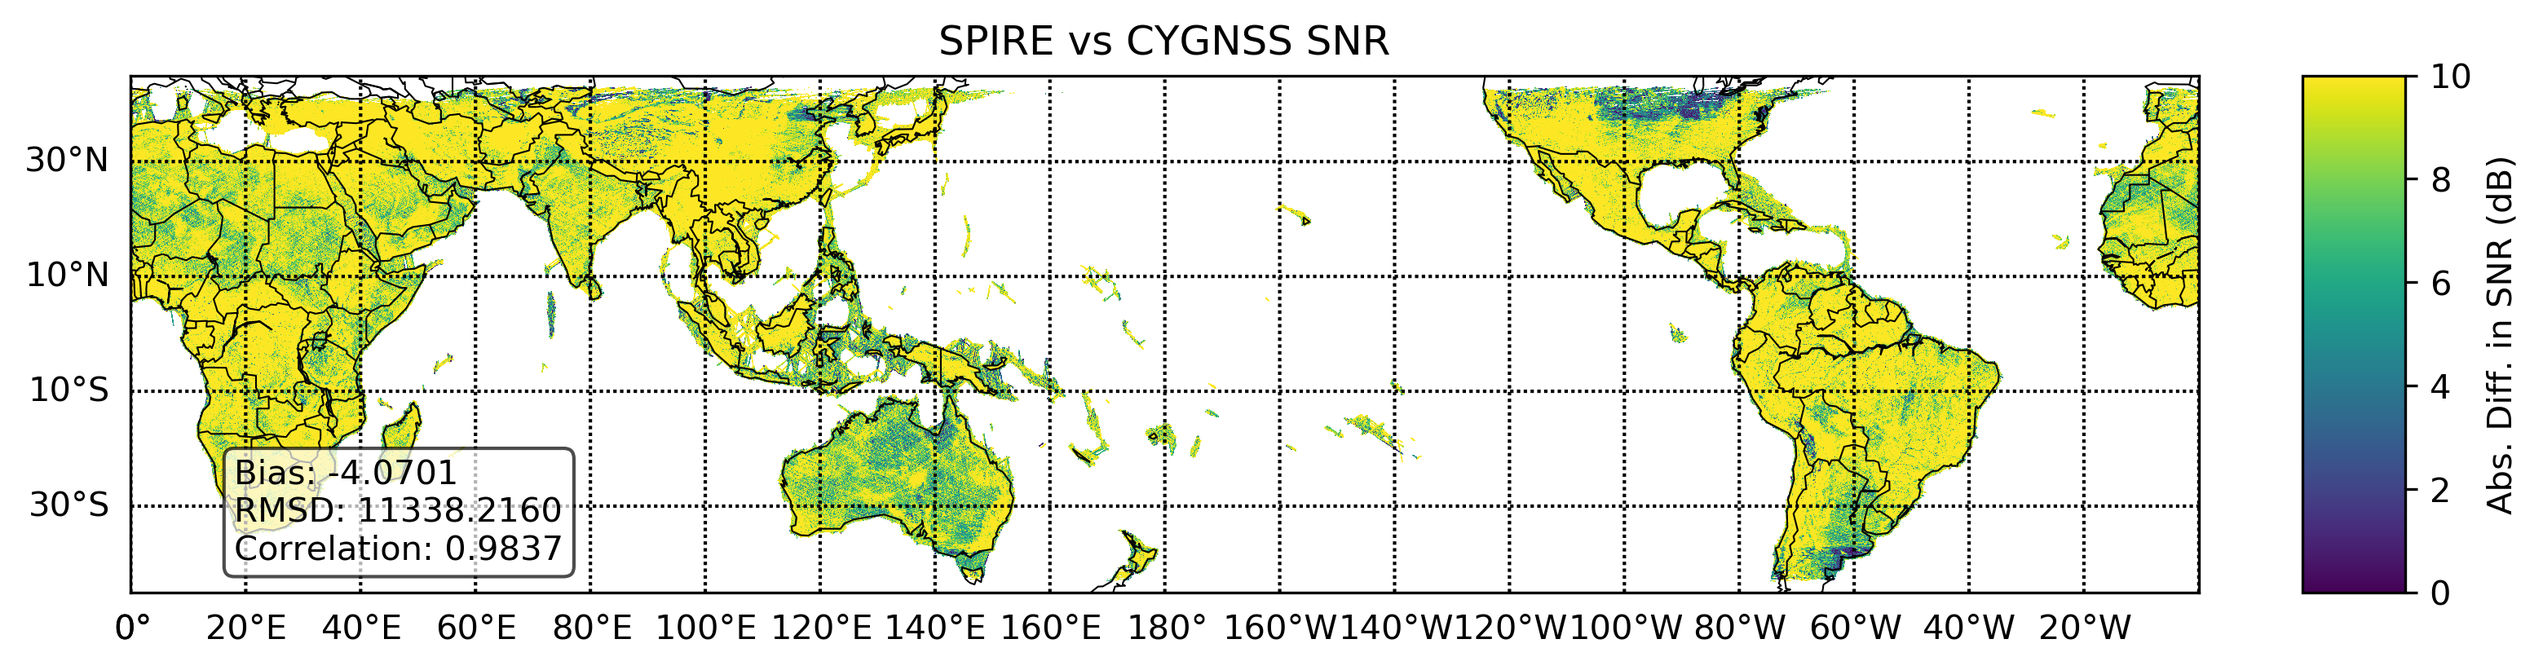
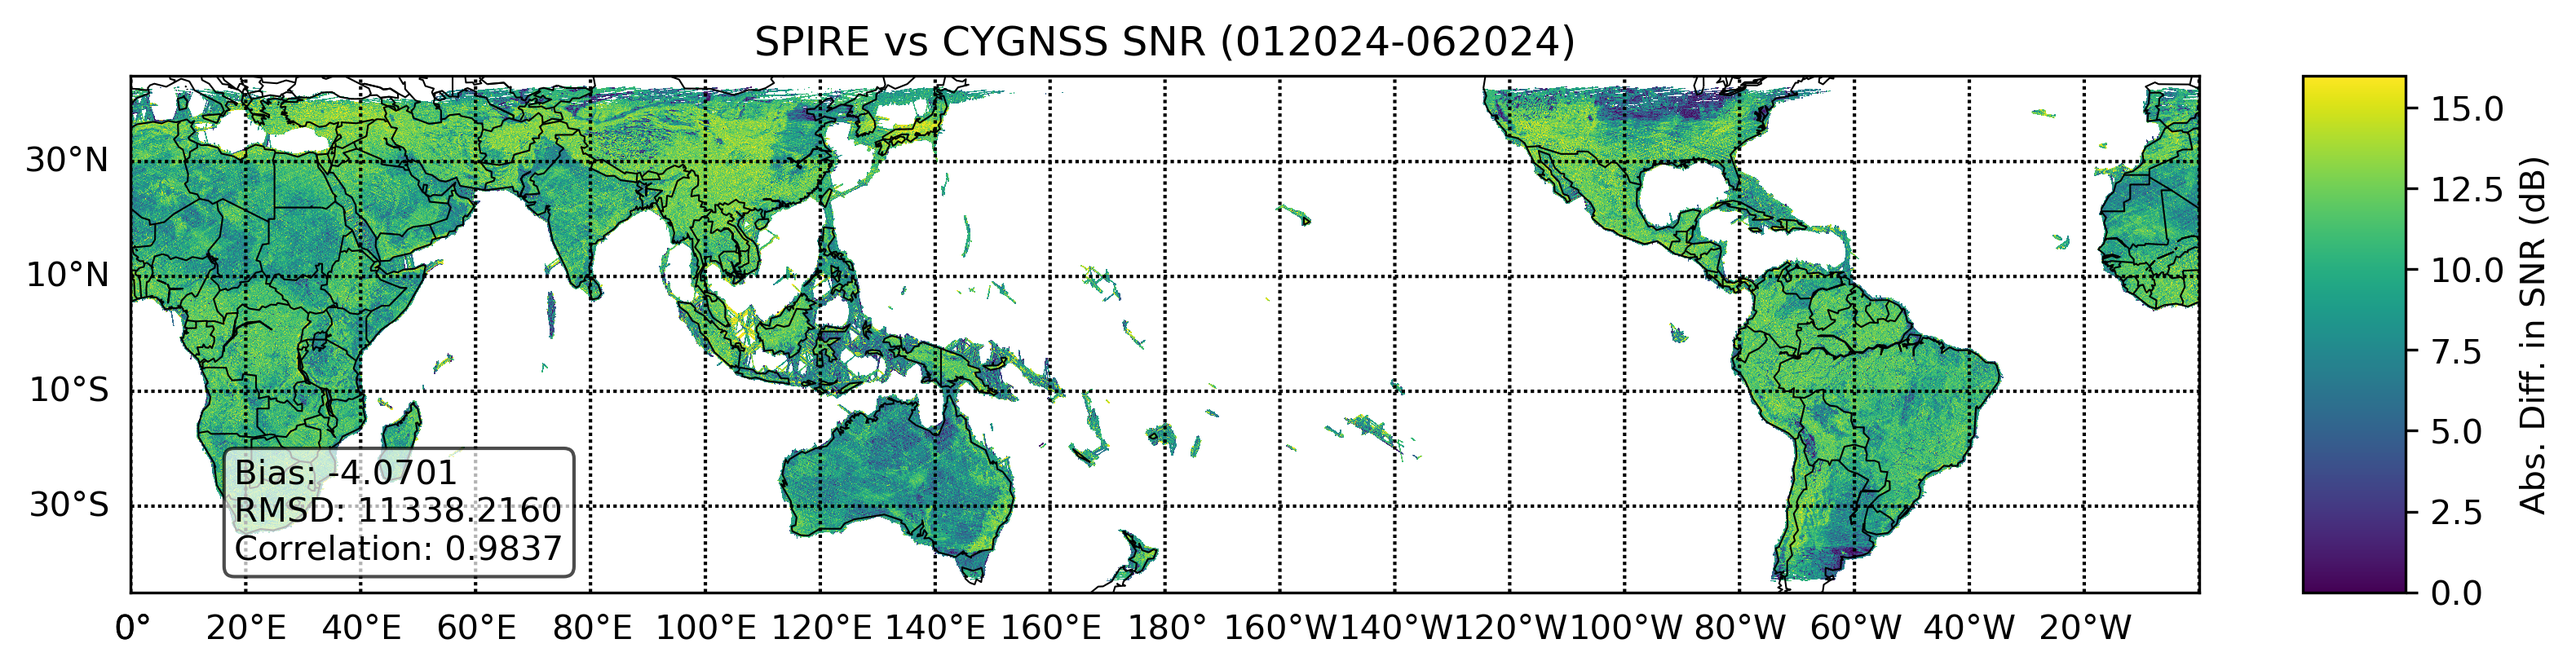
zoomed in and better comparison maps

diff --git a/visualize_comparison.py b/visualize_comparison.py
@@ -22,38 +22,32 @@ def calculate_statistics(grid1, grid2):
 
     return diff_grid, stats
 
-# creates a matplotlib figure for a given grid over an Earth map
-def create_figure(grid, title, label, file_name, isomin, isomax, latmin, latmax, stats=None):
+def create_figure(grid, title, label, file_name, isomin, isomax, lonmin, lonmax, latmin, latmax, stats=None):
     fig, ax = plt.subplots(figsize=(12, 8))
 
-    # the Basemap library adds a map of the Earth for easy viewing
     m = Basemap(projection='cyl', llcrnrlat=latmin, urcrnrlat=latmax,
-                llcrnrlon=0, urcrnrlon=360, resolution='c', ax=ax)
+                llcrnrlon=lonmin, urcrnrlon=lonmax, resolution='c', ax=ax)
 
-    # creates a meshgrid from [0, 360] and [latmin, latmax] used to translate argument grid to lon and lat values 
     lon_vals = np.linspace(0, 360, grid.shape[1])
-    lat_vals = np.linspace(latmin, latmax, grid.shape[0])
+    lat_vals = np.linspace(-45, 45, grid.shape[0])
     lon_grid, lat_grid = np.meshgrid(lon_vals, lat_vals)
 
-    # remove values that are equal to -9999
     masked_grid = np.ma.masked_where(grid == -9999, grid)
 
     cs = m.pcolormesh(lon_grid, lat_grid, masked_grid, shading='auto', 
                       cmap='viridis', vmin=isomin, vmax=isomax)
 
-    # customization stuff
     m.drawcoastlines(linewidth=0.5)
     m.drawcountries(linewidth=0.5)
 
-    m.drawparallels(np.arange(-90, 91, 20), labels=[1, 0, 0, 0])  # Latitude lines
-    m.drawmeridians(np.arange(0, 361, 20), labels=[0, 0, 0, 1])   # Longitude lines
+    m.drawparallels(np.arange(-90, 91, 20), labels=[1, 0, 0, 0])  
+    m.drawmeridians(np.arange(0, 361, 20), labels=[0, 0, 0, 1])  
 
     cbar = m.colorbar(cs, location='right', pad="5%")
     cbar.set_label(label)
 
     ax.set_title(title)
 
-    # If statistics are provided, add them as annotations
     if stats:
         bias, rmsd, corr = stats
         textstr = '\n'.join((
@@ -61,7 +55,6 @@ def create_figure(grid, title, label, file_name, isomin, isomax, latmin, latmax,
             f"RMSD: {rmsd:.4f}",
             f"Correlation: {corr:.4f}"
         ))
-        # place the text box in the lower-left corner of the plot
         props = dict(boxstyle='round', facecolor='white', alpha=0.7)
         ax.text(0.05, 0.05, textstr, transform=ax.transAxes, fontsize=10,
                 verticalalignment='bottom', bbox=props)
@@ -70,25 +63,31 @@ def create_figure(grid, title, label, file_name, isomin, isomax, latmin, latmax,
     plt.close()
 
 def visualize_SPIRE_vs_CYGNSS():
-    with open('/data01/lpu/spire_snr_grid.pkl', 'rb') as f:
-        spire_snr_grid = pickle.load(f)
     with open('/data01/lpu/spire_reflectivity_grid.pkl', 'rb') as f:
         spire_refl_grid = pickle.load(f)
-    with open('/data01/lpu/cygnss_snr_grid.pkl', 'rb') as f:
-        cygnss_snr_grid = pickle.load(f)
     with open('/data01/lpu/cygnss_reflectivity_grid.pkl', 'rb') as f:
         cygnss_refl_grid = pickle.load(f)
 
     spire_refl_grid = spire_refl_grid[900:2700, :]
     refl_grid, stats = calculate_statistics(spire_refl_grid, cygnss_refl_grid)
-    create_figure(refl_grid, "SPIRE vs CYGNSS Reflectivity", "Abs. Diff. in Reflectivity (dBZ)", "figures/comp_reflectivity_map.png", 0, 0.015, -45, 45, stats) 
+    create_figure(refl_grid, "SPIRE vs CYGNSS Reflectivity (012024-062024)", "Abs. Diff. in Reflectivity (dBZ)", "figures/comp_reflectivity_map.png", 0, 0.06, 0, 360, -45, 45, stats) 
 
     spire_snr_grid = spire_snr_grid[900:2700, :]
     snr_grid, stats = calculate_statistics(spire_snr_grid, cygnss_snr_grid)
-    create_figure(snr_grid, "SPIRE vs CYGNSS SNR", "Abs. Diff. in SNR (dB)", "figures/comp_snr_map.png", 0, 10, -45, 45, stats) 
+    create_figure(snr_grid, "SPIRE vs CYGNSS SNR (012024-062024)", "Abs. Diff. in SNR (dB)", "figures/comp_snr_map.png", 0, 16, 0, 360, -45, 45, stats) 
 
+def visualize_SPIRE_vs_CGYNSS_area():
+    with open('/data01/lpu/spire_reflectivity_grid.pkl', 'rb') as f:
+        spire_refl_grid = pickle.load(f)
+    with open('/data01/lpu/cygnss_reflectivity_grid.pkl', 'rb') as f:
+        cygnss_refl_grid = pickle.load(f)
+
+    spire_refl_grid = spire_refl_grid[900:2700, :]
+    refl_grid, _ = calculate_statistics(spire_refl_grid, cygnss_refl_grid)
+    
+    create_figure(refl_grid, "SPIRE vs CYGNSS Reflectivity, Australia (01-06/2024)", "Abs. Diff. in Reflectivity (dBZ)", "figures/comp_reflectivity_australia_map.png", 0, 0.06, 100, 160, -45, -10) 
+    create_figure(refl_grid, "SPIRE vs CYGNSS Reflectivity, North/Central America (01-06/2024)", "Abs. Diff. in Reflectivity (dBZ)", "figures/comp_reflectivity_america_map.png", 0, 0.06, 220, 300, 10, 45)
 
 if __name__ == "__main__":
-    # i've ran into memory issues with this file, seemingly from caching too much
-    # closing the terminal and reopening seems to fix this for mes
-    visualize_SPIRE_vs_CYGNSS()
+    # visualize_SPIRE_vs_CYGNSS()
+    visualize_SPIRE_vs_CGYNSS_area()
